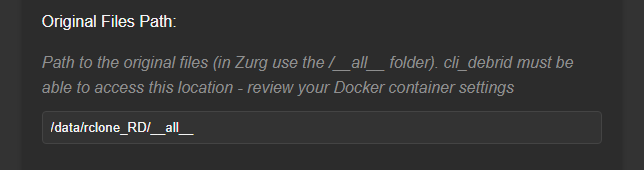
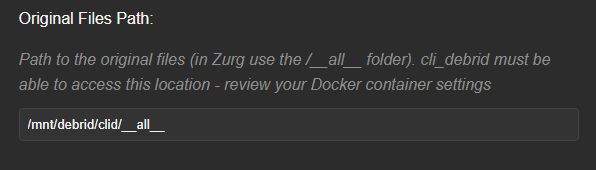
docs: Update CLI Debrid documentation
Updates the CLI Debrid documentation to reflect default rclone mount paths and adds information on integrating with Plex Media Server.

The changes include:
- Updating the example for `Original Files Path` to reflect default rclone configuration values during onboarding.
- Adding a section on Plex Media Server integration, including instructions on how to sign in to Plex and select the DUMB instance, noting the potential need to update the Plex URL.

Resolves docs(cli_debrid): update onboarding screenshot for cli_debrid

Fixes #12

Changed region(s): [[0.0302, 0.2941, 0.9362, 0.5588], [0.0302, 0.0588, 0.2718, 0.1765], [0.0302, 0.7059, 0.302, 0.7941]]

diff --git a/docs/services/core/cli-debrid.md b/docs/services/core/cli-debrid.md
@@ -176,7 +176,7 @@ CLI Debrid can create symlinks to be used in the media server, or if using the r
 In both cases, ensure the appropriate path for the rclone or zurg mount is used when adding the `Original Files Path`.
 !!! note "The `Original Files Path` is relative to the paths inside the container"
 
-    Example: If the rclone `mount_dir` is set to `/data`, the rclone `mount_name` is set to `rclone_RD`, and you're using `zurg_enabled: true` for rclone, then you would enter:  
+    Example: As default when configured with the onboarding process, the rclone `mount_dir` is set to `/mnt/debrid`, the rclone `mount_name` is set to `clid`, and it is using `zurg_enabled: true` for rclone, then the path should be:  
 
     ![Original Files Path](../../assets/images/cli_debrid/clid_original_files_path.png)
 
@@ -191,6 +191,27 @@ As such, it's important to ensure you select the appropriate option for your dep
 
 ---
 
+## 🚀 Plex Media Server Built-in!
+
+With [Plex Media Server](plex-media-server.md) enabled in DUMB, you can also leverage it with CLI Debrid
+
+As shown below, if you select to "Sign in to Plex" during the CLI Debrid onboarding, it will allow you to select the local instance of [Plex Media Server](plex-media-server.md)
+
+!!! note "[Plex Media Server](plex-media-server.md) must be configured and running in DUMB before it will appear in the list of available servers"
+
+![Sign in to Plex](../../assets/images/cli_debrid/plex_sign_in.PNG)
+
+Signing into Plex and selecting the DUMB [Plex Media Server](plex-media-server.md) will pre-populate the "Plex URL" and "Plex Token" within the CLI Debrid onboarding. 
+
+However, note that it sets the "Plex URL" as the DUMB docker container's IP Address:
+
+![Plex URL Signed In](../../assets/images/cli_debrid/plex_server_url_signed_in.PNG)
+
+This may cause issues if the address changes for the container, so it is suggested to change the "Plex URL" as shown below:
+
+![Plex URL](../../assets/images/cli_debrid/plex_server_url.PNG)
+
+---
 ## 🚀 Zilean Built-in!
 
 With [Zilean](../optional/zilean.md) enabled in DUMB, you can also leverage it with CLI Debrid
